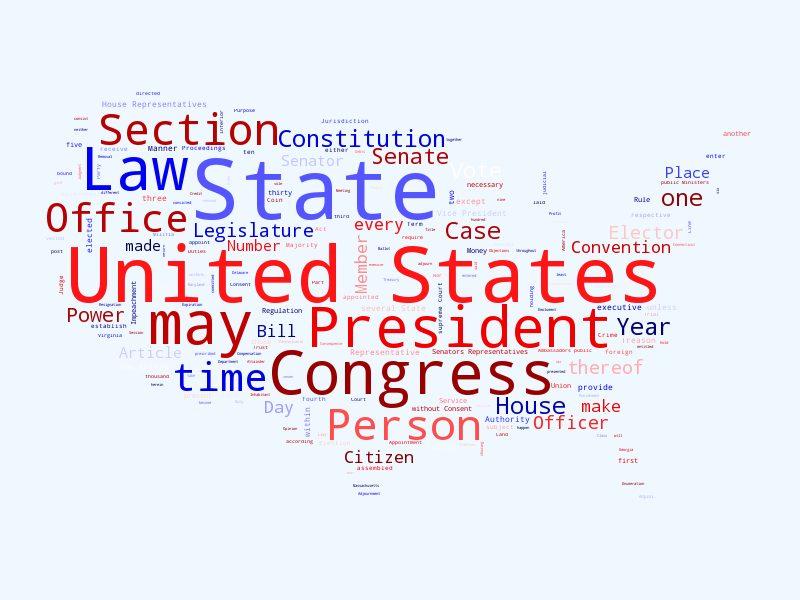
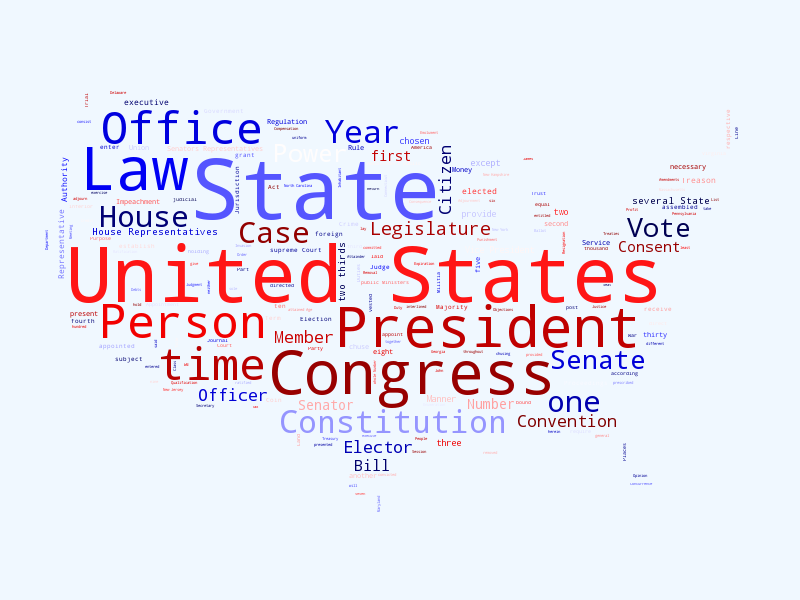
Added stop words.  Created another word cloud.
Adjusted code to exclude more stop words.  

Created a word cloud for the Amendments.

diff --git a/USConst_MaskedWordCloud.py b/USConst_MaskedWordCloud.py
@@ -35,6 +35,13 @@ us_mask = np.array(Image.open(args.mask))
 
 # create a set ouf of stopwords
 stopwords = set(STOPWORDS)
+moreStopWords = ["Section", "AMENDMENT", "section", "without", "article", 
+                 "within", "otherwise", "upon", "whenever", "begin", "thereof",
+                 "unless", "become", "among", "may", "made", "Day", "make", 
+                 "Place", "either", "every", "wherein", "hereof", "therein", 
+                 "hereby"]
+for w in moreStopWords:
+    stopwords.add(w)
 
 # instantiate the word cloud generator
 wc = WordCloud(background_color = 'aliceblue', mask = us_mask, stopwords = stopwords, 
